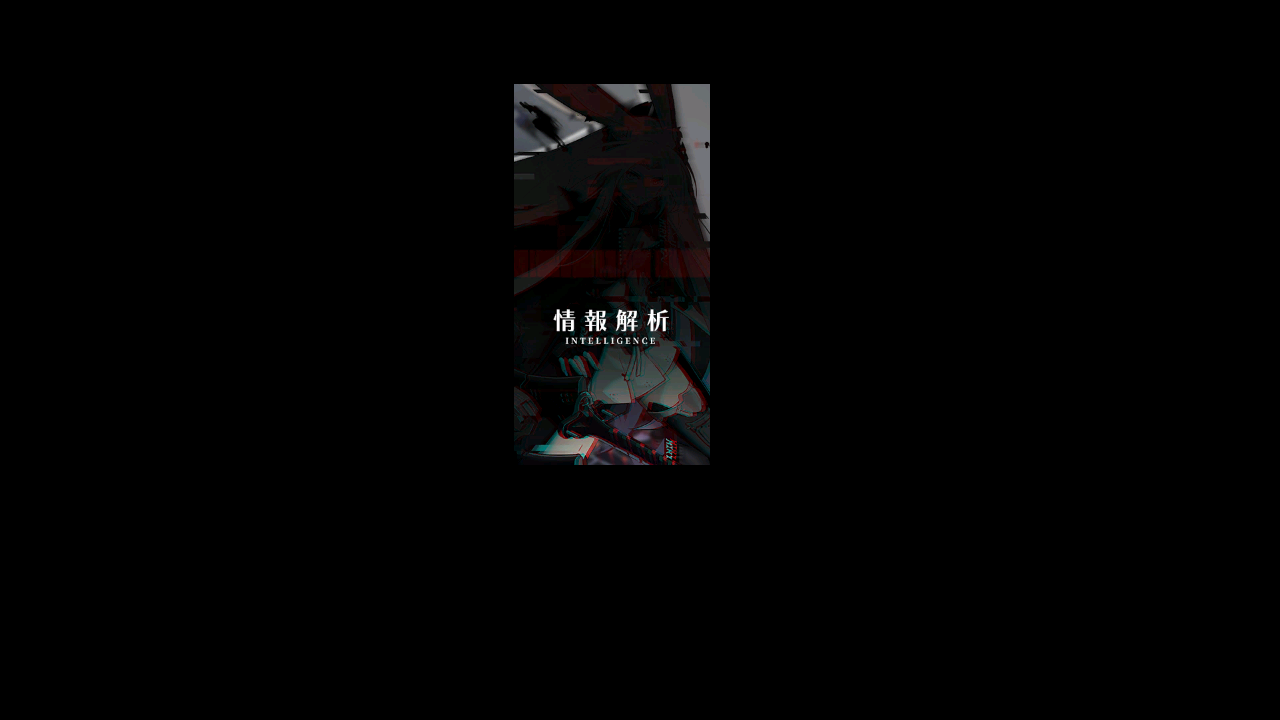
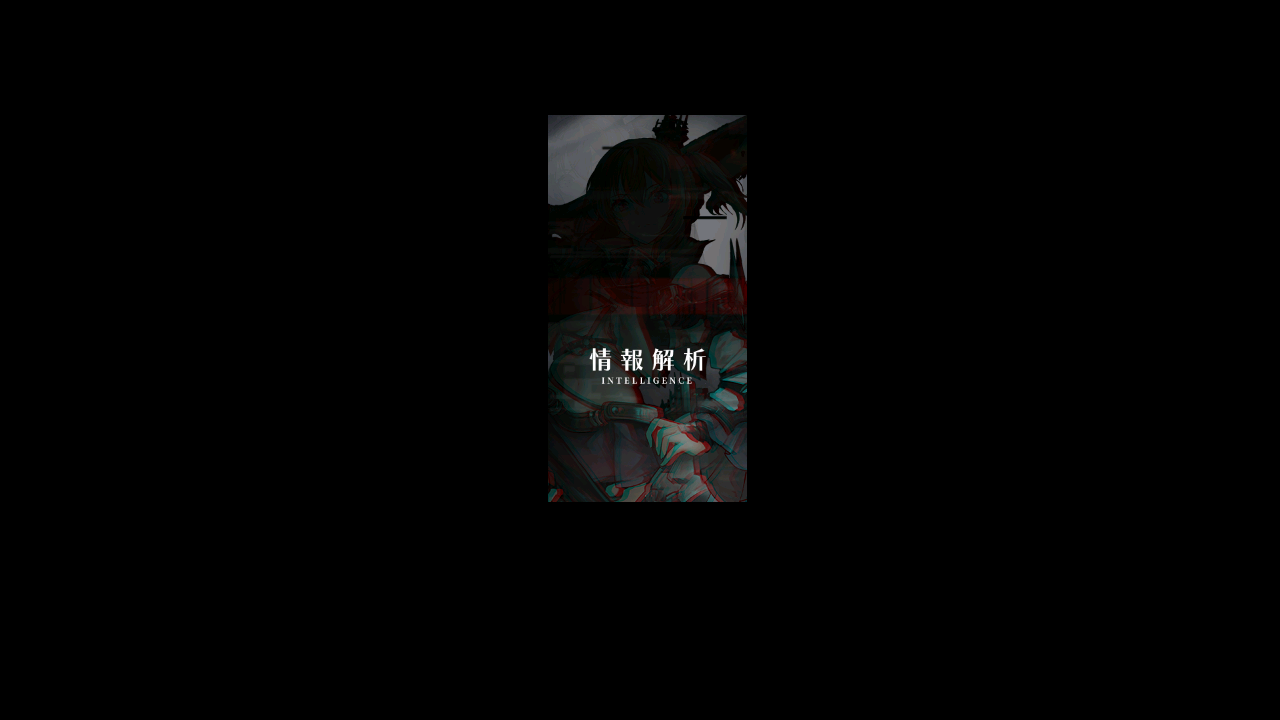
Upd: [JP] BEACON_ENTER

Changed region(s): [[0.375, 0.0917, 0.5938, 0.7028]]

diff --git a/module/os_ash/assets.py b/module/os_ash/assets.py
@@ -14,7 +14,7 @@ ASH_SHOWDOWN = Button(area={'cn': (120, 14, 262, 38), 'en': (120, 16, 319, 35), 
 ASH_START = Button(area={'cn': (1061, 635, 1259, 695), 'en': (1063, 637, 1255, 693), 'jp': (1058, 634, 1260, 697), 'tw': (1043, 637, 1242, 698)}, color={'cn': (236, 187, 115), 'en': (223, 184, 124), 'jp': (222, 185, 126), 'tw': (223, 186, 131)}, button={'cn': (1061, 635, 1259, 695), 'en': (1063, 637, 1255, 693), 'jp': (1058, 634, 1260, 697), 'tw': (1043, 637, 1242, 698)}, file={'cn': './assets/cn/os_ash/ASH_START.png', 'en': './assets/en/os_ash/ASH_START.png', 'jp': './assets/jp/os_ash/ASH_START.png', 'tw': './assets/tw/os_ash/ASH_START.png'})
 BATTLE_STATUS = Button(area={'cn': (1051, 644, 1123, 675), 'en': (1022, 657, 1150, 671), 'jp': (1087, 642, 1127, 679), 'tw': (1050, 644, 1123, 675)}, color={'cn': (247, 199, 137), 'en': (243, 207, 160), 'jp': (229, 171, 91), 'tw': (243, 193, 128)}, button={'cn': (1051, 644, 1123, 675), 'en': (1022, 657, 1150, 671), 'jp': (1087, 642, 1127, 679), 'tw': (1050, 644, 1123, 675)}, file={'cn': './assets/cn/os_ash/BATTLE_STATUS.png', 'en': './assets/en/os_ash/BATTLE_STATUS.png', 'jp': './assets/jp/os_ash/BATTLE_STATUS.png', 'tw': './assets/tw/os_ash/BATTLE_STATUS.png'})
 BEACON_EMPTY = Button(area={'cn': (535, 288, 647, 316), 'en': (522, 290, 775, 313), 'jp': (443, 288, 739, 316), 'tw': (536, 288, 651, 316)}, color={'cn': (126, 129, 134), 'en': (148, 150, 154), 'jp': (132, 135, 140), 'tw': (127, 130, 134)}, button={'cn': (535, 288, 647, 316), 'en': (522, 290, 775, 313), 'jp': (443, 288, 739, 316), 'tw': (536, 288, 651, 316)}, file={'cn': './assets/cn/os_ash/BEACON_EMPTY.png', 'en': './assets/en/os_ash/BEACON_EMPTY.png', 'jp': './assets/jp/os_ash/BEACON_EMPTY.png', 'tw': './assets/tw/os_ash/BEACON_EMPTY.png'})
-BEACON_ENTER = Button(area={'cn': (553, 308, 669, 332), 'en': (590, 359, 705, 372), 'jp': (553, 309, 669, 331), 'tw': (616, 309, 668, 331)}, color={'cn': (90, 92, 92), 'en': (104, 105, 104), 'jp': (102, 101, 101), 'tw': (110, 112, 114)}, button={'cn': (509, 78, 713, 470), 'en': (509, 78, 713, 470), 'jp': (514, 84, 710, 465), 'tw': (509, 78, 714, 470)}, file={'cn': './assets/cn/os_ash/BEACON_ENTER.png', 'en': './assets/en/os_ash/BEACON_ENTER.png', 'jp': './assets/jp/os_ash/BEACON_ENTER.png', 'tw': './assets/tw/os_ash/BEACON_ENTER.png'})
+BEACON_ENTER = Button(area={'cn': (553, 308, 669, 332), 'en': (590, 359, 705, 372), 'jp': (589, 348, 706, 371), 'tw': (616, 309, 668, 331)}, color={'cn': (90, 92, 92), 'en': (104, 105, 104), 'jp': (101, 102, 101), 'tw': (110, 112, 114)}, button={'cn': (509, 78, 713, 470), 'en': (509, 78, 713, 470), 'jp': (548, 115, 747, 502), 'tw': (509, 78, 714, 470)}, file={'cn': './assets/cn/os_ash/BEACON_ENTER.png', 'en': './assets/en/os_ash/BEACON_ENTER.png', 'jp': './assets/jp/os_ash/BEACON_ENTER.png', 'tw': './assets/tw/os_ash/BEACON_ENTER.png'})
 BEACON_HP_PERCENTAGE = Button(area={'cn': (278, 609, 1239, 623), 'en': (278, 609, 1239, 623), 'jp': (278, 609, 1239, 623), 'tw': (278, 609, 1239, 623)}, color={'cn': (224, 31, 22), 'en': (224, 31, 22), 'jp': (224, 31, 22), 'tw': (224, 31, 22)}, button={'cn': (278, 609, 1239, 623), 'en': (278, 609, 1239, 623), 'jp': (278, 609, 1239, 623), 'tw': (278, 609, 1239, 623)}, file={'cn': './assets/cn/os_ash/BEACON_HP_PERCENTAGE.png', 'en': './assets/en/os_ash/BEACON_HP_PERCENTAGE.png', 'jp': './assets/jp/os_ash/BEACON_HP_PERCENTAGE.png', 'tw': './assets/tw/os_ash/BEACON_HP_PERCENTAGE.png'})
 BEACON_LIST = Button(area={'cn': (26, 649, 218, 703), 'en': (25, 648, 218, 703), 'jp': (22, 645, 221, 706), 'tw': (23, 646, 221, 705)}, color={'cn': (135, 105, 122), 'en': (141, 104, 121), 'jp': (141, 107, 129), 'tw': (135, 101, 119)}, button={'cn': (26, 649, 218, 703), 'en': (25, 648, 218, 703), 'jp': (22, 645, 221, 706), 'tw': (23, 646, 221, 705)}, file={'cn': './assets/cn/os_ash/BEACON_LIST.png', 'en': './assets/en/os_ash/BEACON_LIST.png', 'jp': './assets/jp/os_ash/BEACON_LIST.png', 'tw': './assets/tw/os_ash/BEACON_LIST.png'})
 BEACON_MY = Button(area={'cn': (25, 647, 218, 702), 'en': (25, 647, 218, 704), 'jp': (22, 645, 221, 706), 'tw': (22, 644, 221, 707)}, color={'cn': (106, 84, 86), 'en': (110, 85, 86), 'jp': (102, 77, 78), 'tw': (108, 82, 84)}, button={'cn': (25, 647, 218, 702), 'en': (25, 647, 218, 704), 'jp': (22, 645, 221, 706), 'tw': (22, 644, 221, 707)}, file={'cn': './assets/cn/os_ash/BEACON_MY.png', 'en': './assets/en/os_ash/BEACON_MY.png', 'jp': './assets/jp/os_ash/BEACON_MY.png', 'tw': './assets/tw/os_ash/BEACON_MY.png'})
